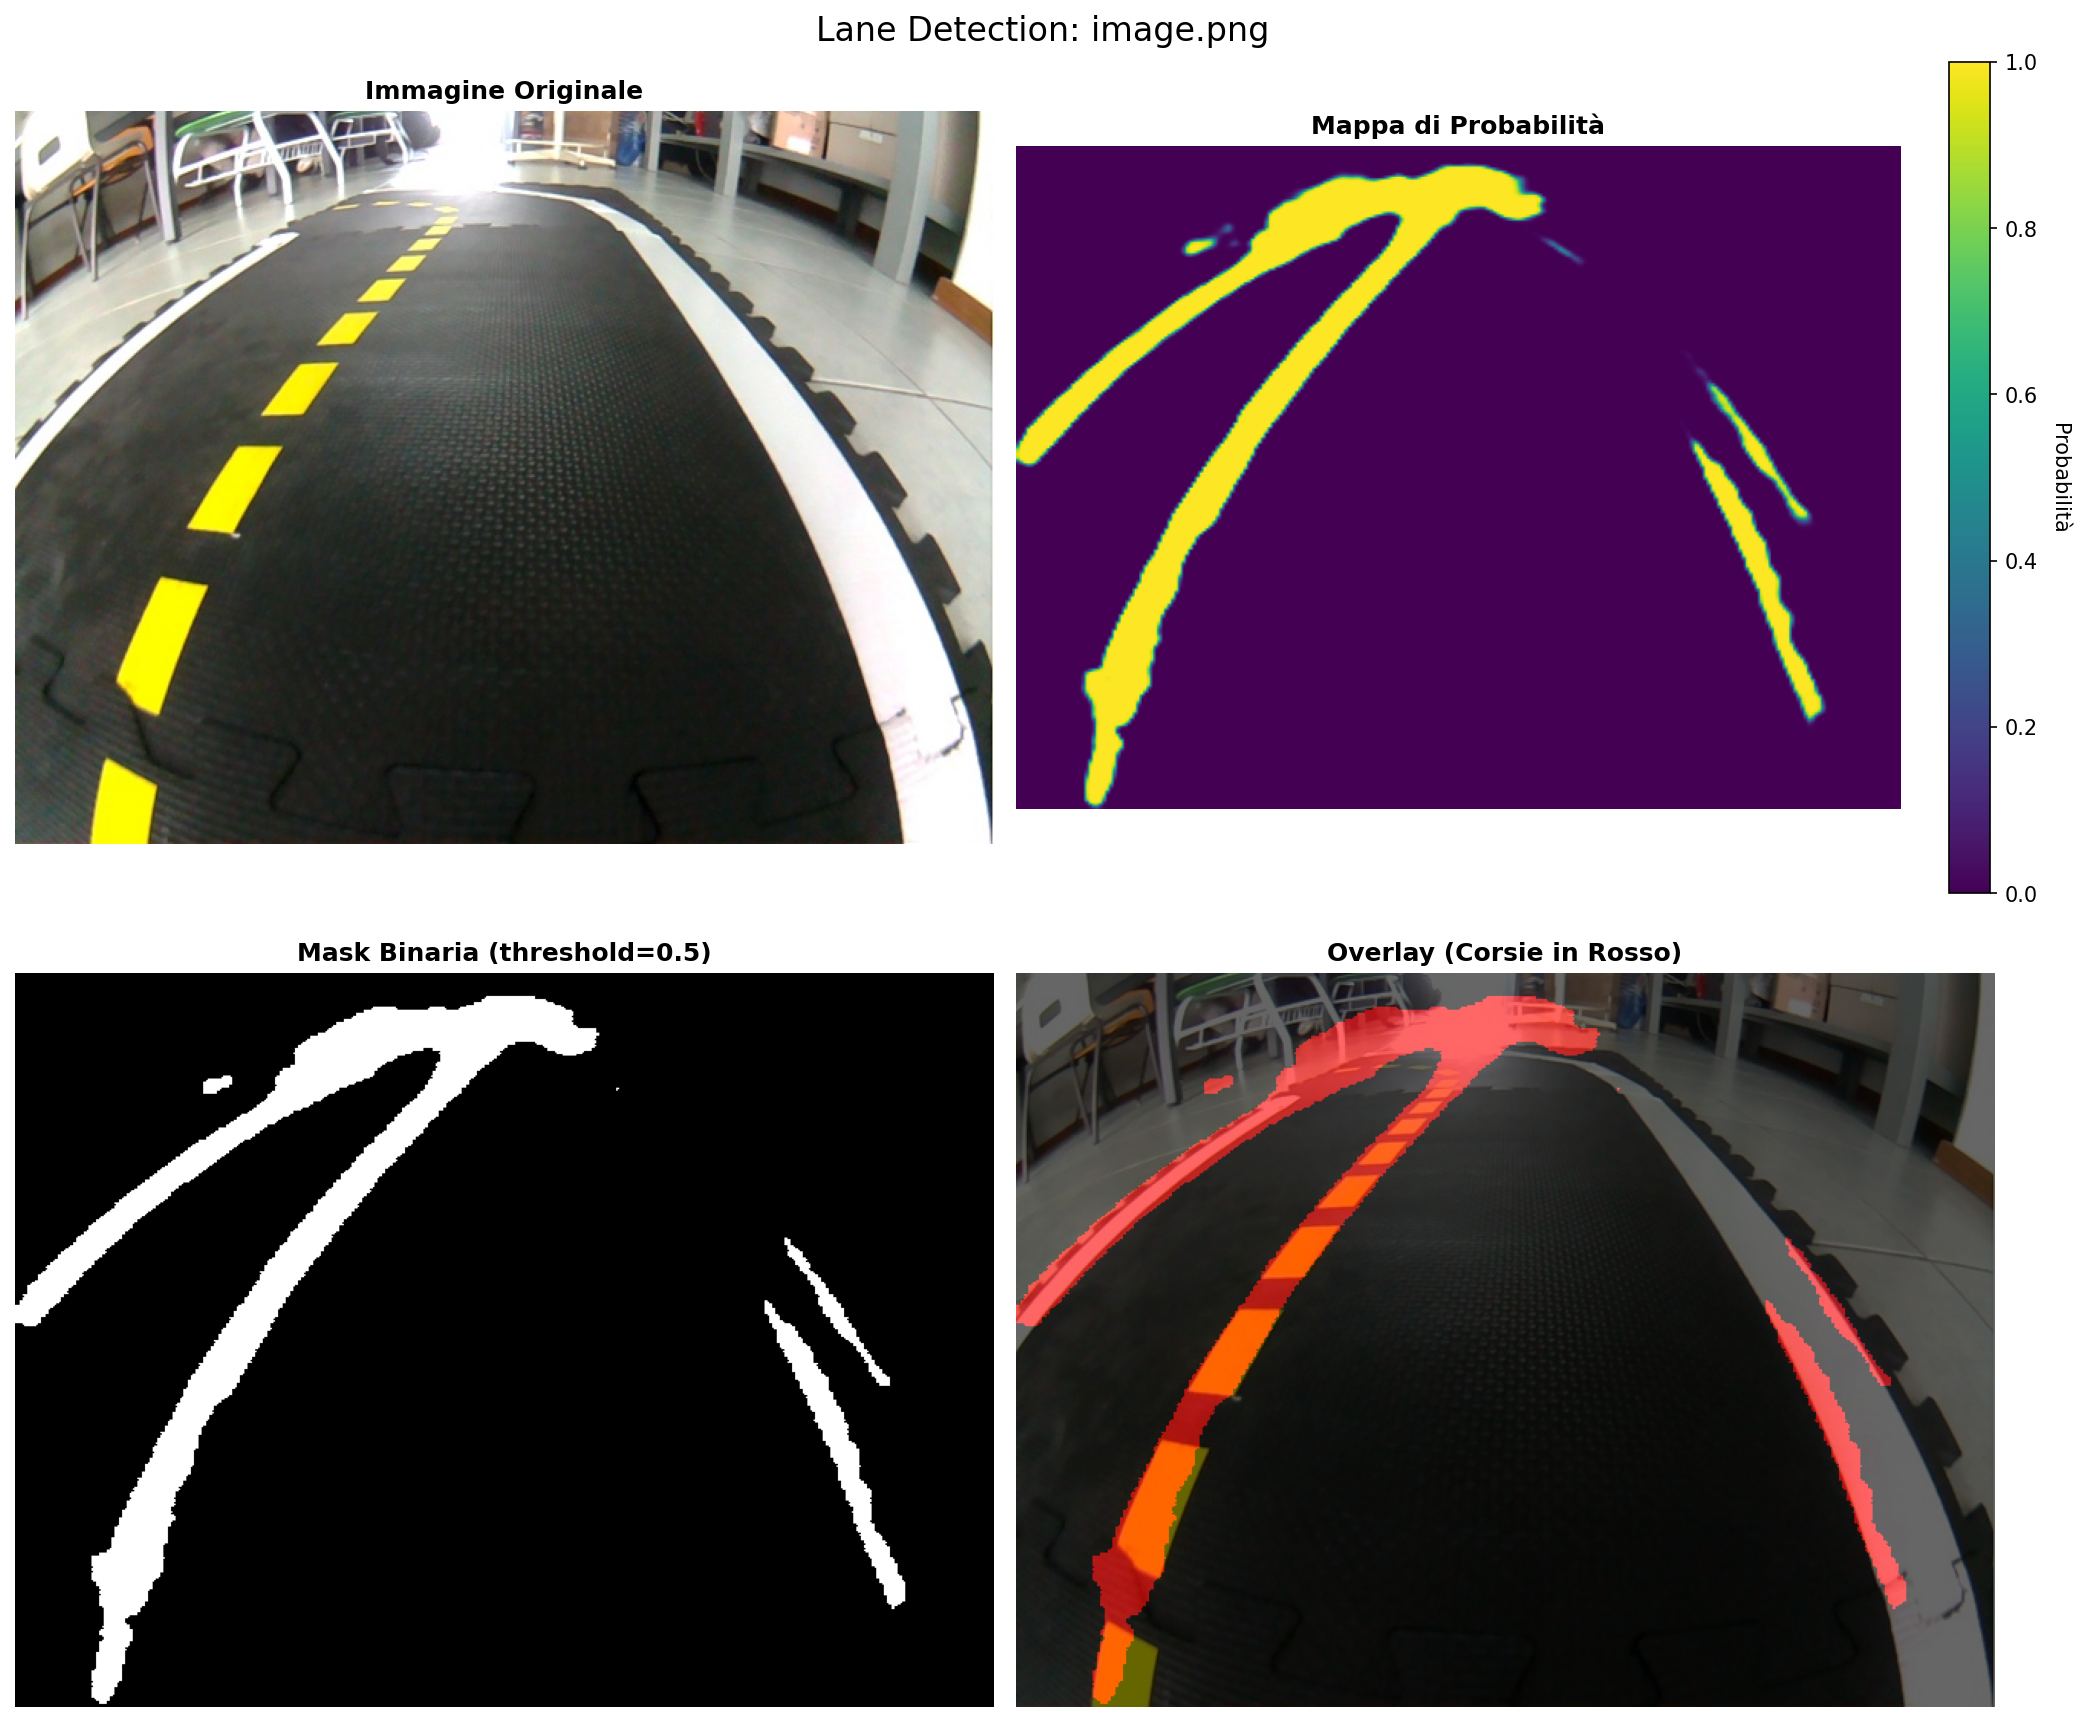
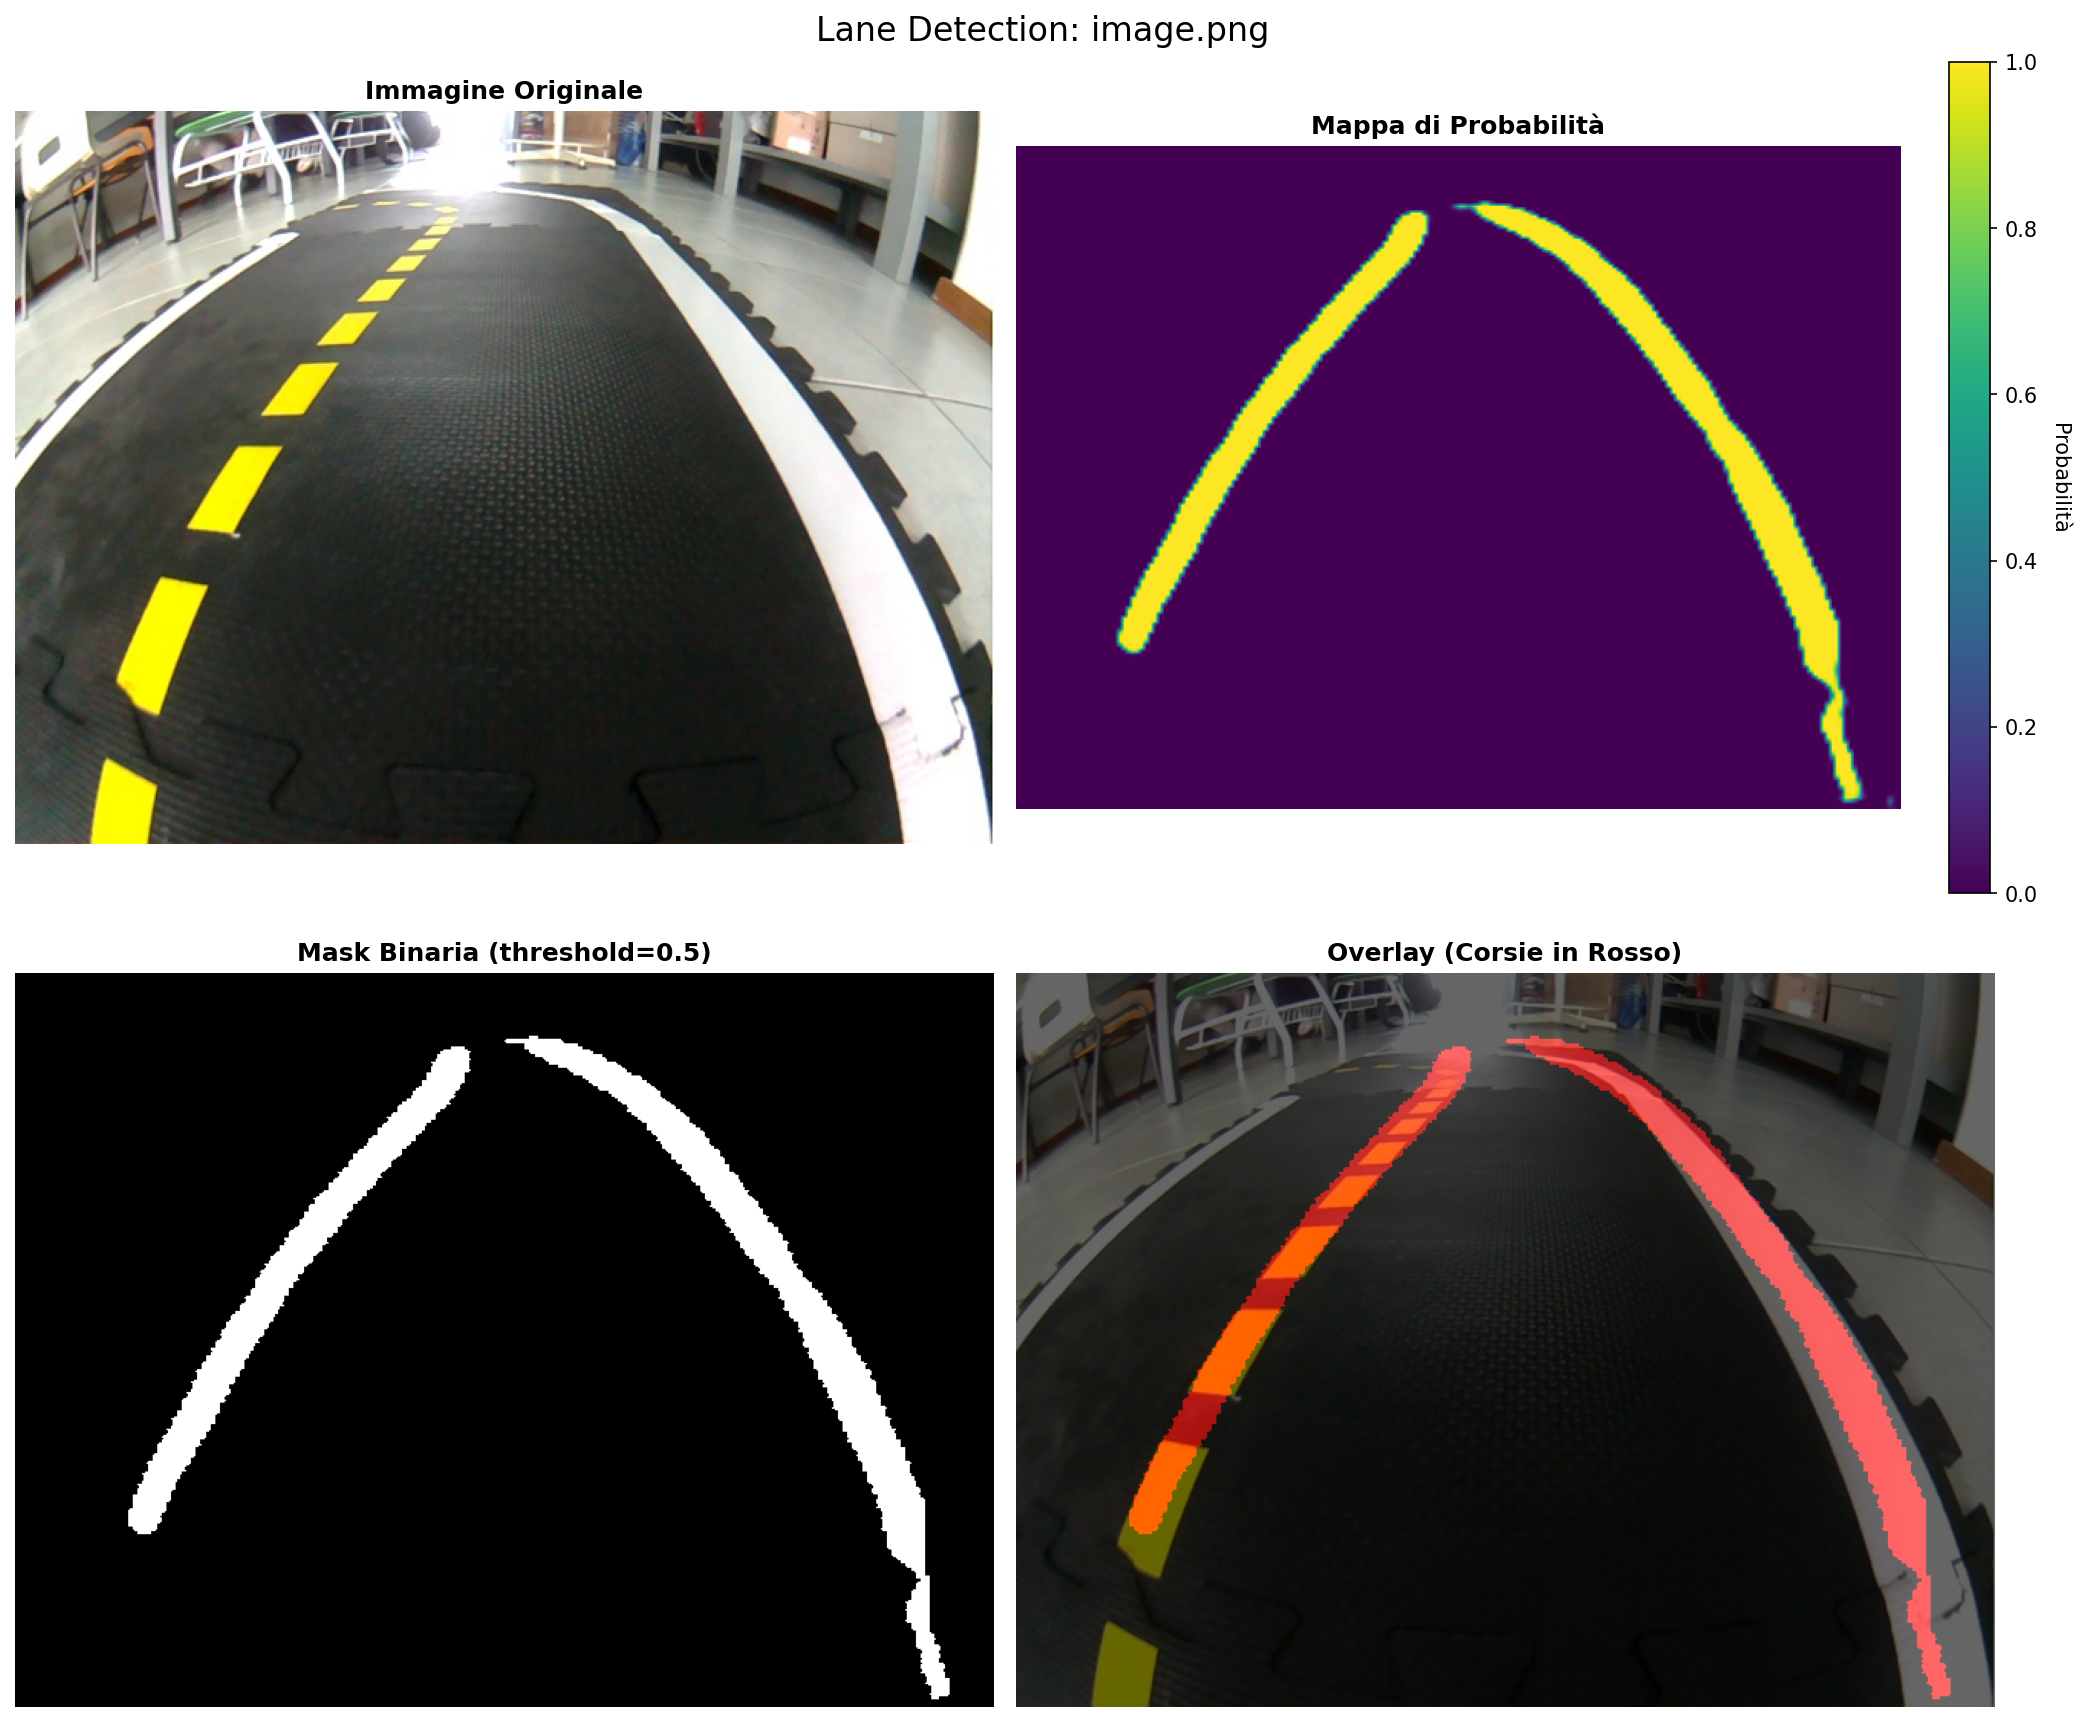
.

diff --git a/predict_fixed.py b/predict_fixed.py
@@ -31,7 +31,7 @@ class LanePredictor:
         self.encoder = encoder
         self.encoder_weights = encoder_weights
         self.model_path = model_path
-        self.input_size = 256  # Dimensione input della rete
+        self.input_size = 200  # Dimensione input della rete
         
         # Crea modello
         self.model = smp.Unet(
@@ -241,7 +241,7 @@ def main():
     """Esempio di utilizzo"""
     
     # ==================== CONFIGURAZIONE ====================
-    MODEL_PATH = 'test03_nn/best_unet.pth'
+    MODEL_PATH = 'test07_nn/best_unet_mobilenet3.pth'
     ENCODER = 'mobilenet_v2'
     ENCODER_WEIGHTS = 'imagenet'
     TEST_IMAGE = 'image.png'
